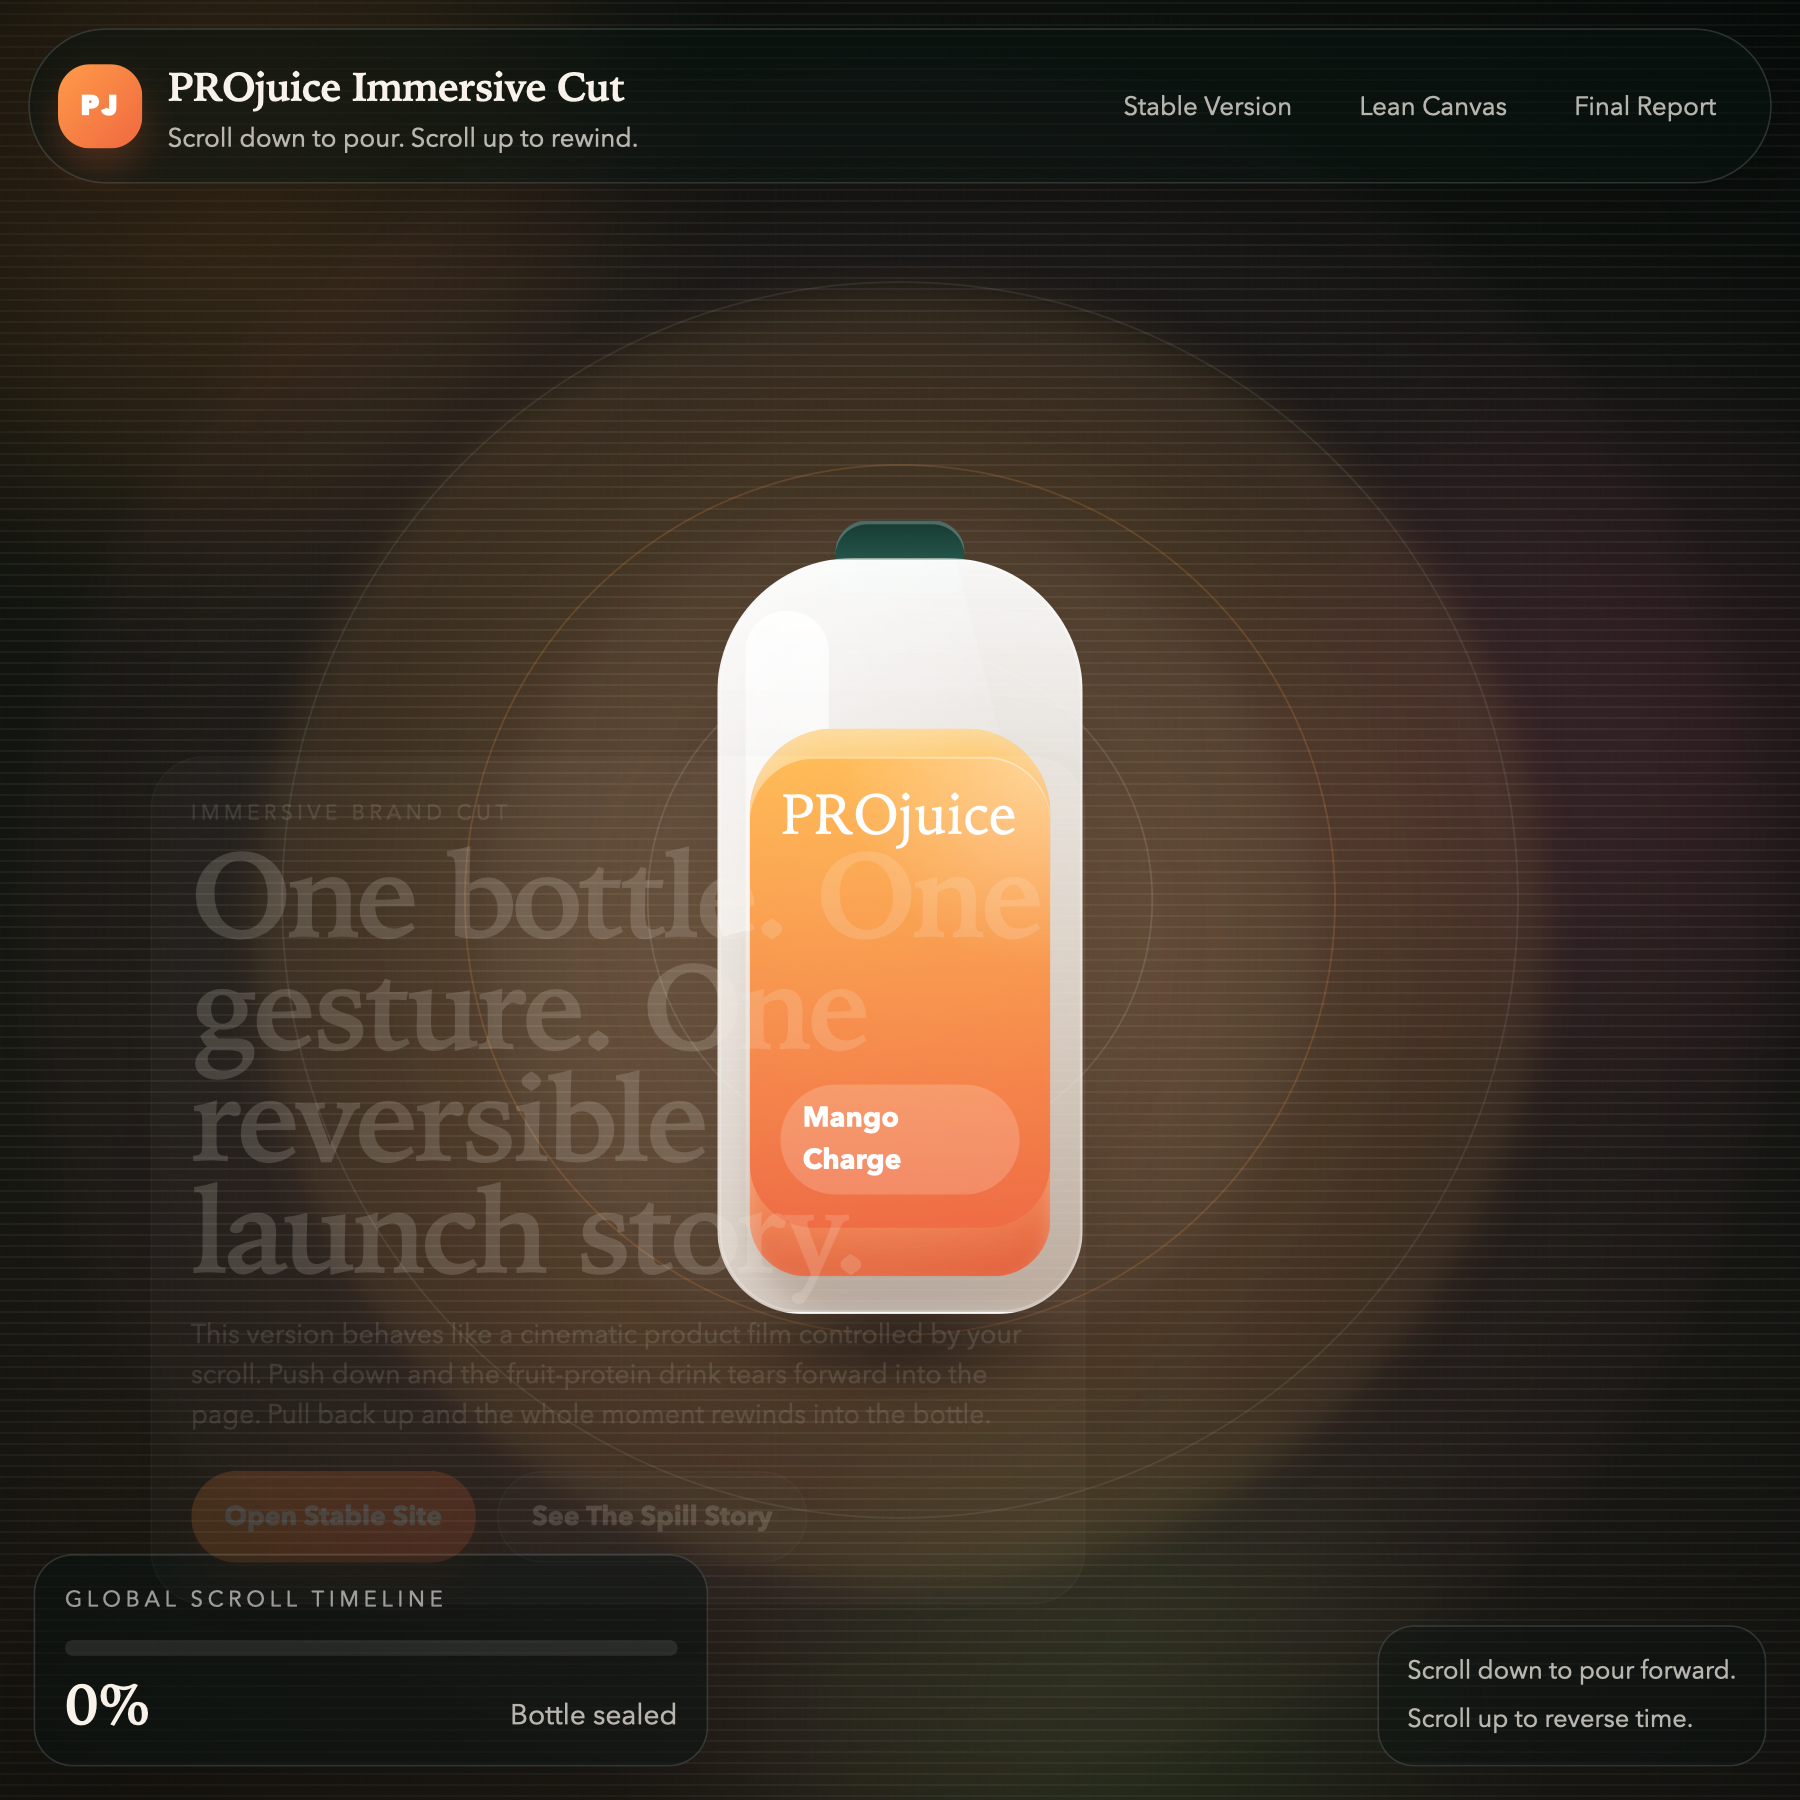
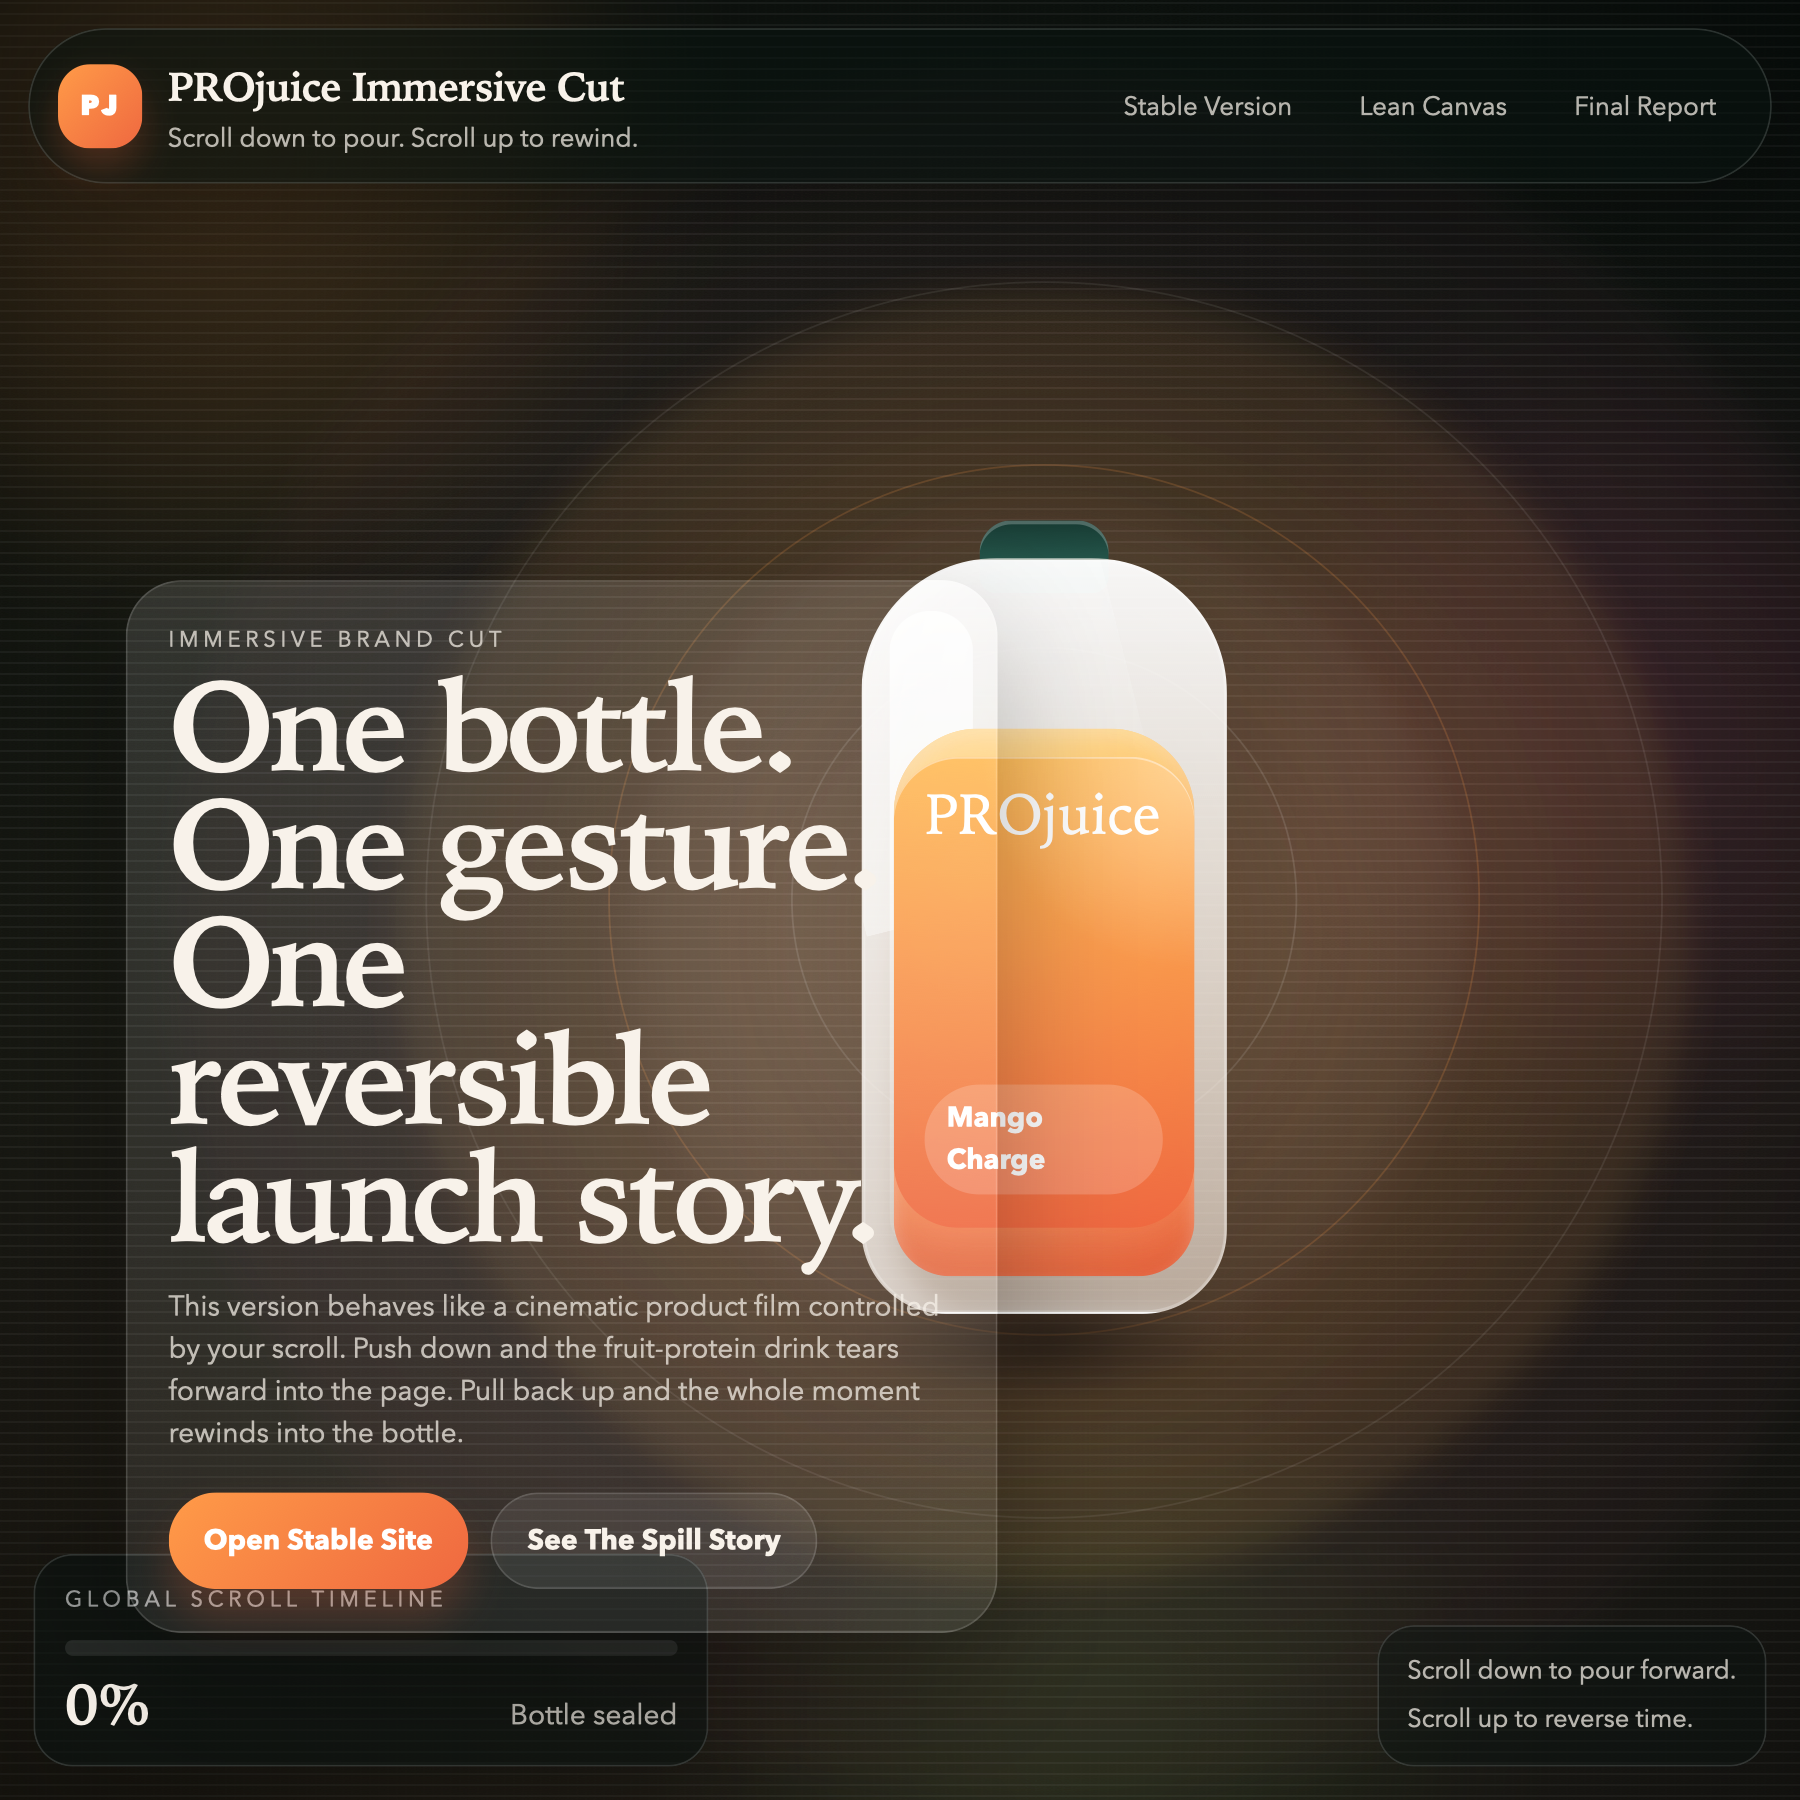
Initial project setup

Changed region(s): [[0.0622, 0.2489, 0.6844, 0.9333], [0.7156, 0.2178, 0.9333, 0.7778], [0.3111, 0.2178, 0.3422, 0.2489]]

diff --git a/src/immersive.css b/src/immersive.css
@@ -14,6 +14,8 @@
   --berry: #cf5d84;
   --lime: #78c85a;
   --mint: #65c9ba;
+  --stage-center-x: 58%;
+  --stage-center-y: 52%;
   --shadow: 0 28px 90px rgba(0, 0, 0, 0.28);
   --radius-xl: 32px;
   --radius-lg: 22px;
@@ -228,8 +230,8 @@ select {
 }
 
 .stage-halo-a {
-  left: 50%;
-  top: 52%;
+  left: var(--stage-center-x);
+  top: var(--stage-center-y);
   width: 46rem;
   height: 46rem;
   transform: translate(-50%, -50%);
@@ -237,8 +239,8 @@ select {
 }
 
 .stage-halo-b {
-  left: 50%;
-  top: 52%;
+  left: var(--stage-center-x);
+  top: var(--stage-center-y);
   width: 30rem;
   height: 30rem;
   transform: translate(-50%, -50%);
@@ -246,8 +248,8 @@ select {
 }
 
 .stage-halo-c {
-  left: 50%;
-  top: 52%;
+  left: var(--stage-center-x);
+  top: var(--stage-center-y);
   width: 62rem;
   height: 62rem;
   transform: translate(-50%, -50%);
@@ -255,7 +257,7 @@ select {
 }
 
 .rewind-ring {
-  left: 50%;
+  left: var(--stage-center-x);
   top: 50%;
   border-radius: 50%;
   border: 1px solid rgba(255, 255, 255, 0.12);
@@ -284,8 +286,8 @@ select {
   --bottle-rotate: 0deg;
   --bottle-scale: 1;
   position: absolute;
-  left: 50%;
-  top: 52%;
+  left: var(--stage-center-x);
+  top: var(--stage-center-y);
   width: clamp(13rem, 19vw, 16rem);
   height: clamp(26rem, 42vw, 31rem);
   transform: translate(-50%, var(--bottle-y)) rotate(var(--bottle-rotate)) scale(var(--bottle-scale));
@@ -408,8 +410,8 @@ select {
 .protein-particle,
 .protein-shard,
 .bubble-particle {
-  left: 50%;
-  top: 52%;
+  left: var(--stage-center-x);
+  top: var(--stage-center-y);
   opacity: 0;
   will-change: transform, opacity;
 }
@@ -575,18 +577,25 @@ select {
   background: linear-gradient(180deg, rgba(255, 255, 255, 0.12), rgba(255, 255, 255, 0.08));
   backdrop-filter: blur(22px);
   box-shadow: var(--shadow);
+  opacity: 1;
+  transform: none;
+  transition: opacity 180ms linear, transform 180ms linear, border-color 180ms linear, background 180ms linear;
+  pointer-events: auto;
+}
+
+.immersive-enhanced .chapter-card {
   opacity: 0.18;
   transform: translate3d(0, 42px, 0) scale(0.95);
-  transition: opacity 180ms linear, transform 180ms linear, border-color 180ms linear;
   pointer-events: none;
 }
 
-.chapter-card.is-active {
+.immersive-enhanced .chapter-card.is-active {
   pointer-events: auto;
 }
 
 .hero-card {
   margin-top: 3rem;
+  width: min(31rem, 100%);
 }
 
 .chapter-card h1,
@@ -710,6 +719,10 @@ select {
 }
 
 @media (max-width: 980px) {
+  :root {
+    --stage-center-x: 50%;
+  }
+
   .experience-header {
     width: min(100% - 1rem, 100%);
     border-radius: 1.8rem;

diff --git a/src/immersive.js b/src/immersive.js
@@ -1,3 +1,5 @@
+document.body.classList.add("immersive-enhanced");
+
 const root = document.documentElement;
 const bottle = document.querySelector("#bottle-assembly");
 const cap = document.querySelector("#scene-cap");
